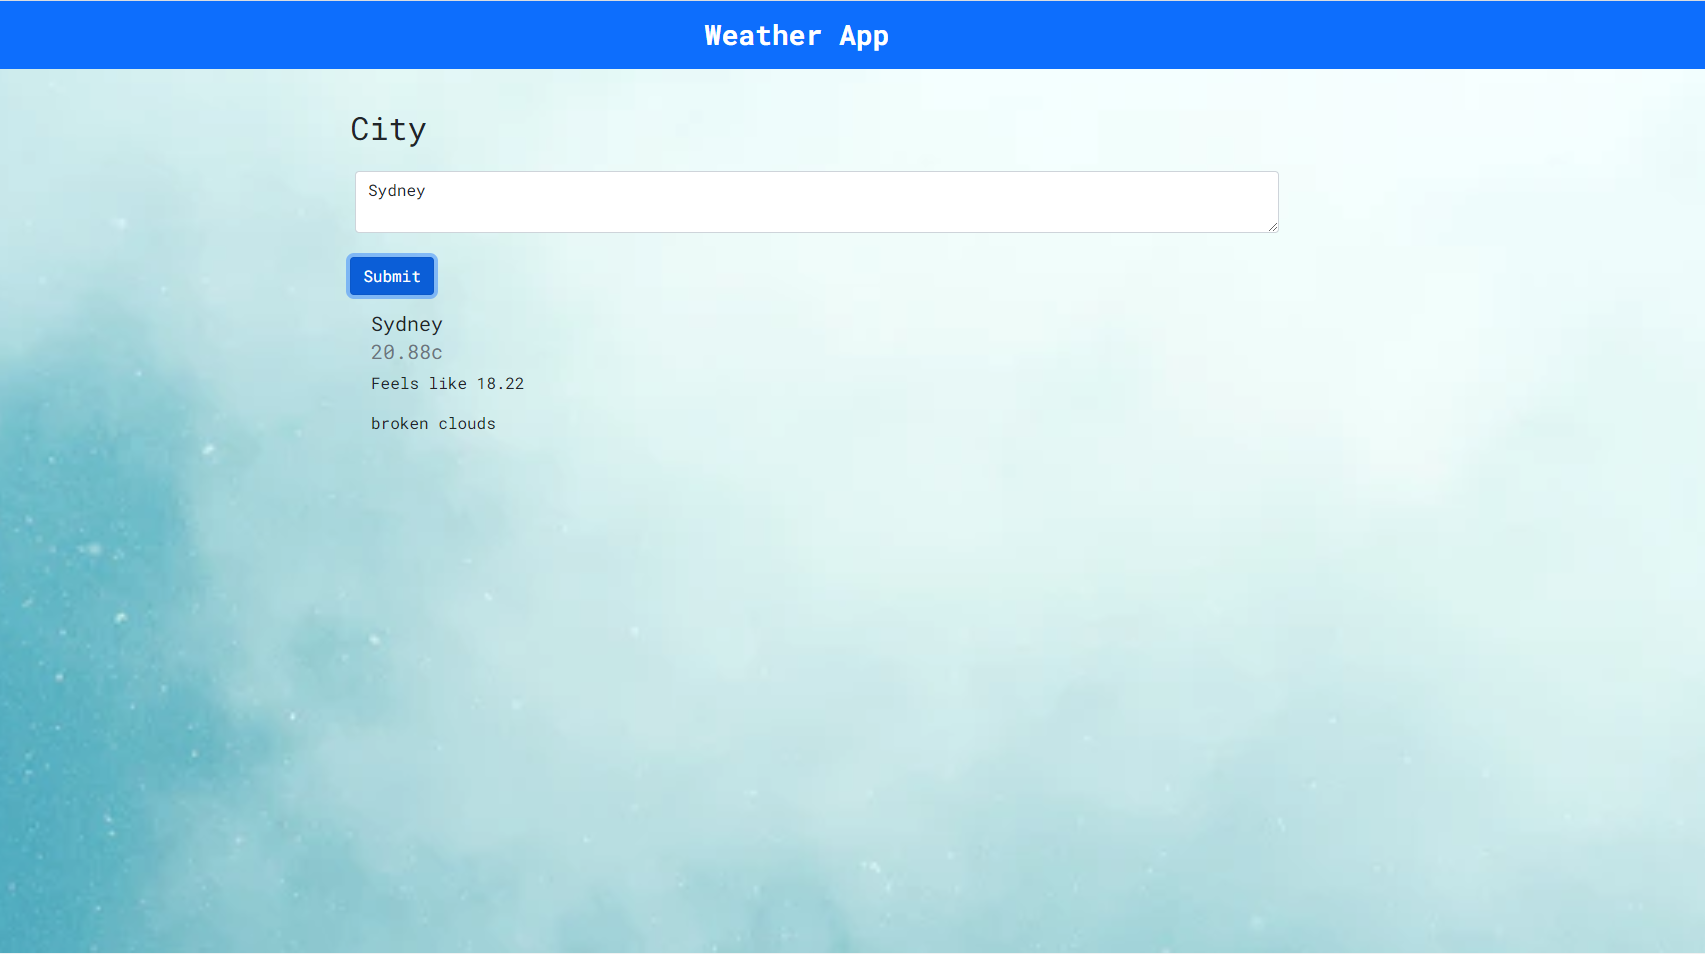
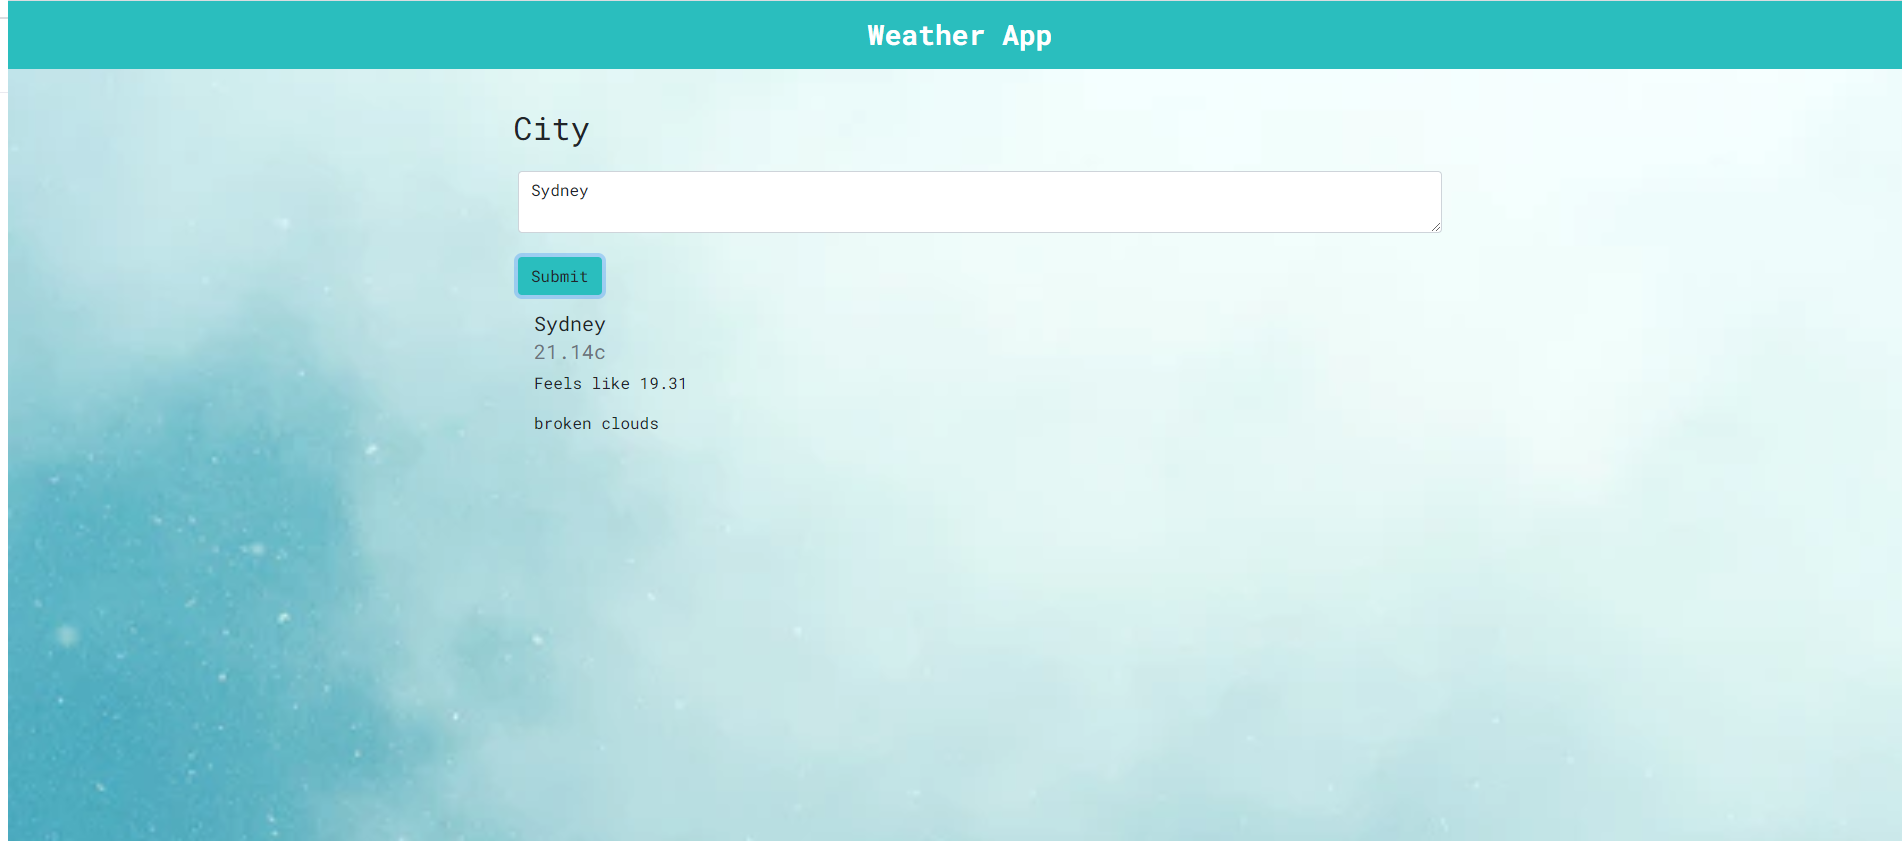
final version

diff --git a/index.html b/index.html
@@ -22,7 +22,7 @@
 <body>
 
 
-    <nav class="navbar navbar-expand-lg navbar-dark bg-primary">
+    <nav class="navbar navbar-expand-lg navbar-dark ">
         <div class="container-fluid d-flex justify-content-center">
             <a class="navbar-brand fs-3 fw-bold " href="#">Weather App</a>
         </div>
@@ -36,24 +36,24 @@
             <div class="input-group">
                 <textarea class="form-control ms-4 mt-3" id="city-input"></textarea>
             </div>
-            <button type="submit" class="btn btn-primary " id="submit-button">Submit</button>
+            <button type="submit" class="btn btn " id="submit-button">Submit</button>
         </div>
     </div>
 
 
     <div class="row d-flex justify-content-center ">
         <div class="col-md-8 col-lg-6 " id="temp-card">
-            <div class="card ">
+            <!-- <div class="card "> -->
 
-                <div class="card-body ms-4 pt-3">
-                    <h5 class="card-title">name</h5>
+            <!-- <div class="card-body ms-4 pt-3"> -->
+            <!-- <h5 class="card-title">name</h5>
                     <h5 class="card-subtitle mb-2 text-muted">Tempe</h6>
                         <p class="card-text">feels like</p>
-                        <p class="card-text">description</p>
+                        <p class="card-text">description</p> -->
 
-                </div>
-            </div>
         </div>
+    </div>
+    </div>
     </div>
 
 

diff --git a/style.css b/style.css
@@ -5,6 +5,10 @@ body {
     background-size: cover;
 }
 
+.navbar {
+    background-color:rgb(42, 190, 190) ;
+}
+
 .city {
     margin-top: 2.5rem;
     margin-left: 1.2rem;
@@ -12,7 +16,8 @@ body {
 
 #submit-button {
     margin-top: 1.5rem;
-    margin-left: 1.2rem;
+    margin-left: 1.5rem;
+    background-color: rgb(42, 190, 190);
 }
 
 .card {

diff --git a/index.js b/index.js
@@ -1,4 +1,4 @@
-const appId = 'Get your Id';
+const appId = 'df0dd1cc12332f3291353c0588ea2e25';
 const creatCardHtml = (name, temp, feelsLike, description) =>
     `
 <div class="card-body ms-4 pt-3">
